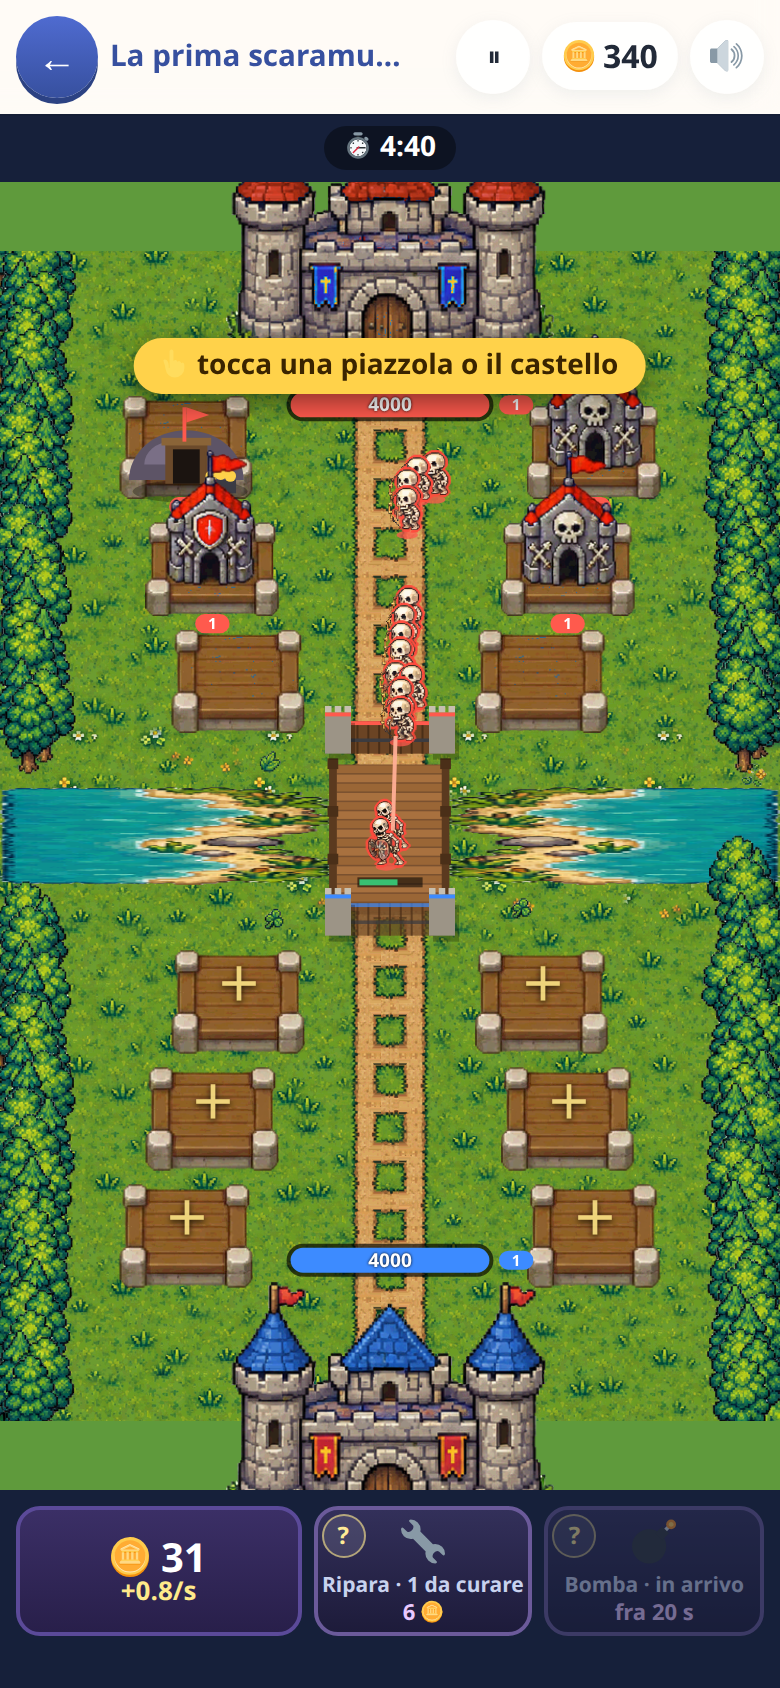
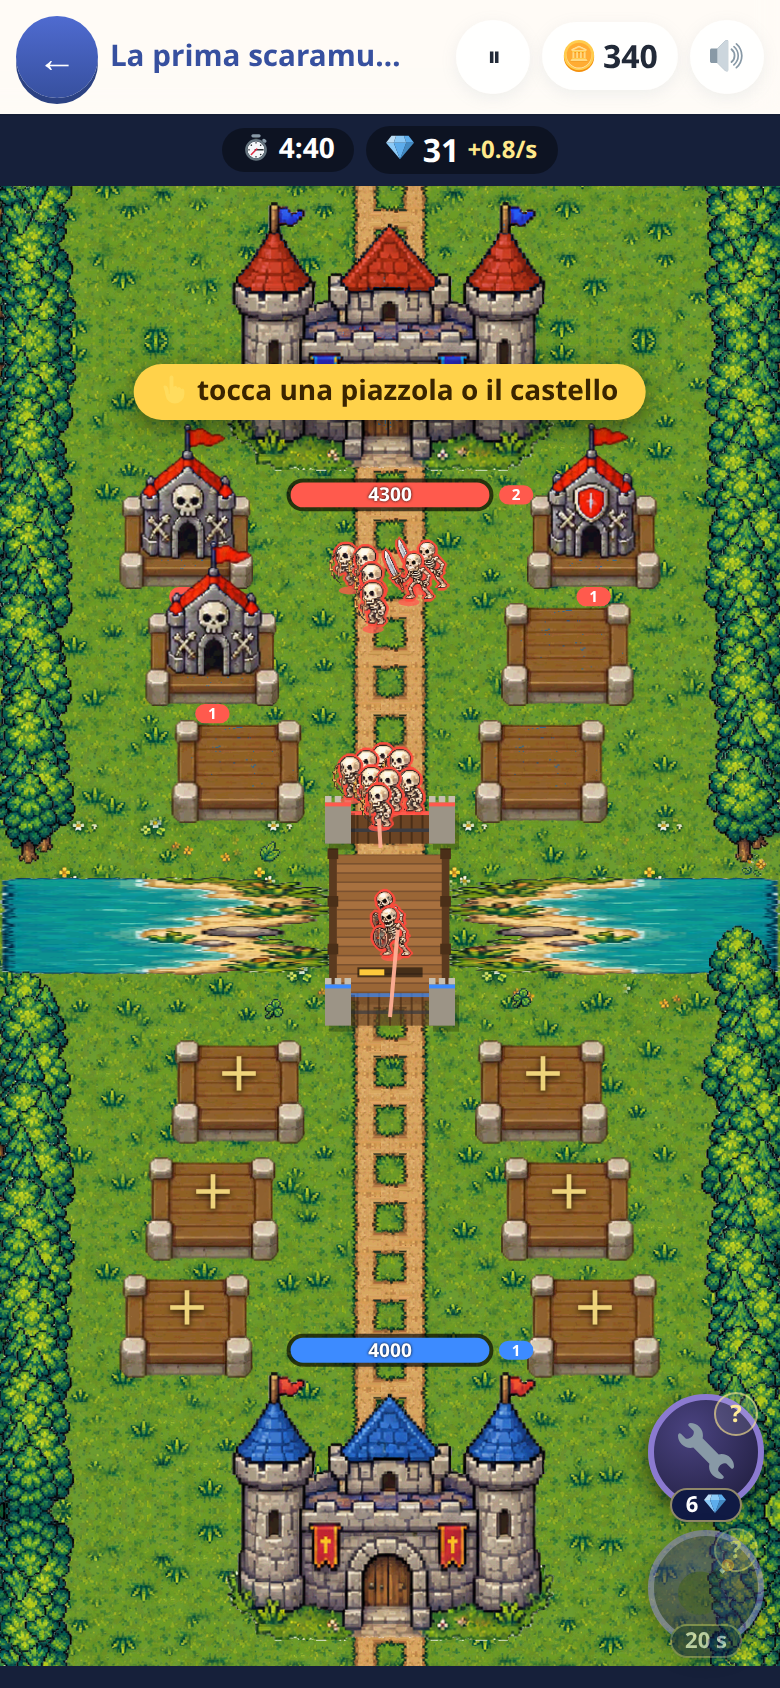
Castle Battle: la novità dice le mummie e la battaglia infinita, e la foto del README rifatta sul gioco di adesso

diff --git a/src/guide/novita-bambini.js b/src/guide/novita-bambini.js
@@ -64,7 +64,7 @@ export const NOVITA = [
   { id: 31, quando: '2026-10-08', gioco: 'sotterraneo',
     testo: '⚔ Nel sotterraneo il tuo eroe sale di livello battendo i mostri: tocca il globo viola per dare i punti! In fondo a ogni discesa ti aspetta un mostro grosso col suo nome, e la roba può essere magica, rara o leggendaria. Le avventure ricominciano da capo.' },
   { id: 32, quando: '2026-10-15', gioco: 'arena',
-    testo: '⚔ Nuovo gioco: Castle Battle! Tocca le piazzole e costruisci caserme di scheletri, lupi, negromanti e draghi, o una miniera per avere più monete. Le tue truppe partono da sole contro il castello nemico, e ogni mossa è un conto a mente: fallo in fretta, il nemico non aspetta!' },
+    testo: '⚔ Nuovo gioco: Castle Battle! Tocca le piazzole e costruisci caserme di scheletri, mummie, negromanti e draghi, o una miniera per avere più monete. Le tue truppe partono da sole contro il castello nemico, e ogni mossa è un conto a mente: fallo in fretta, il nemico non aspetta! E in cima alla mappa c\'è la battaglia infinita.' },
 ]
 
 export const PER_GIOCO = 4
